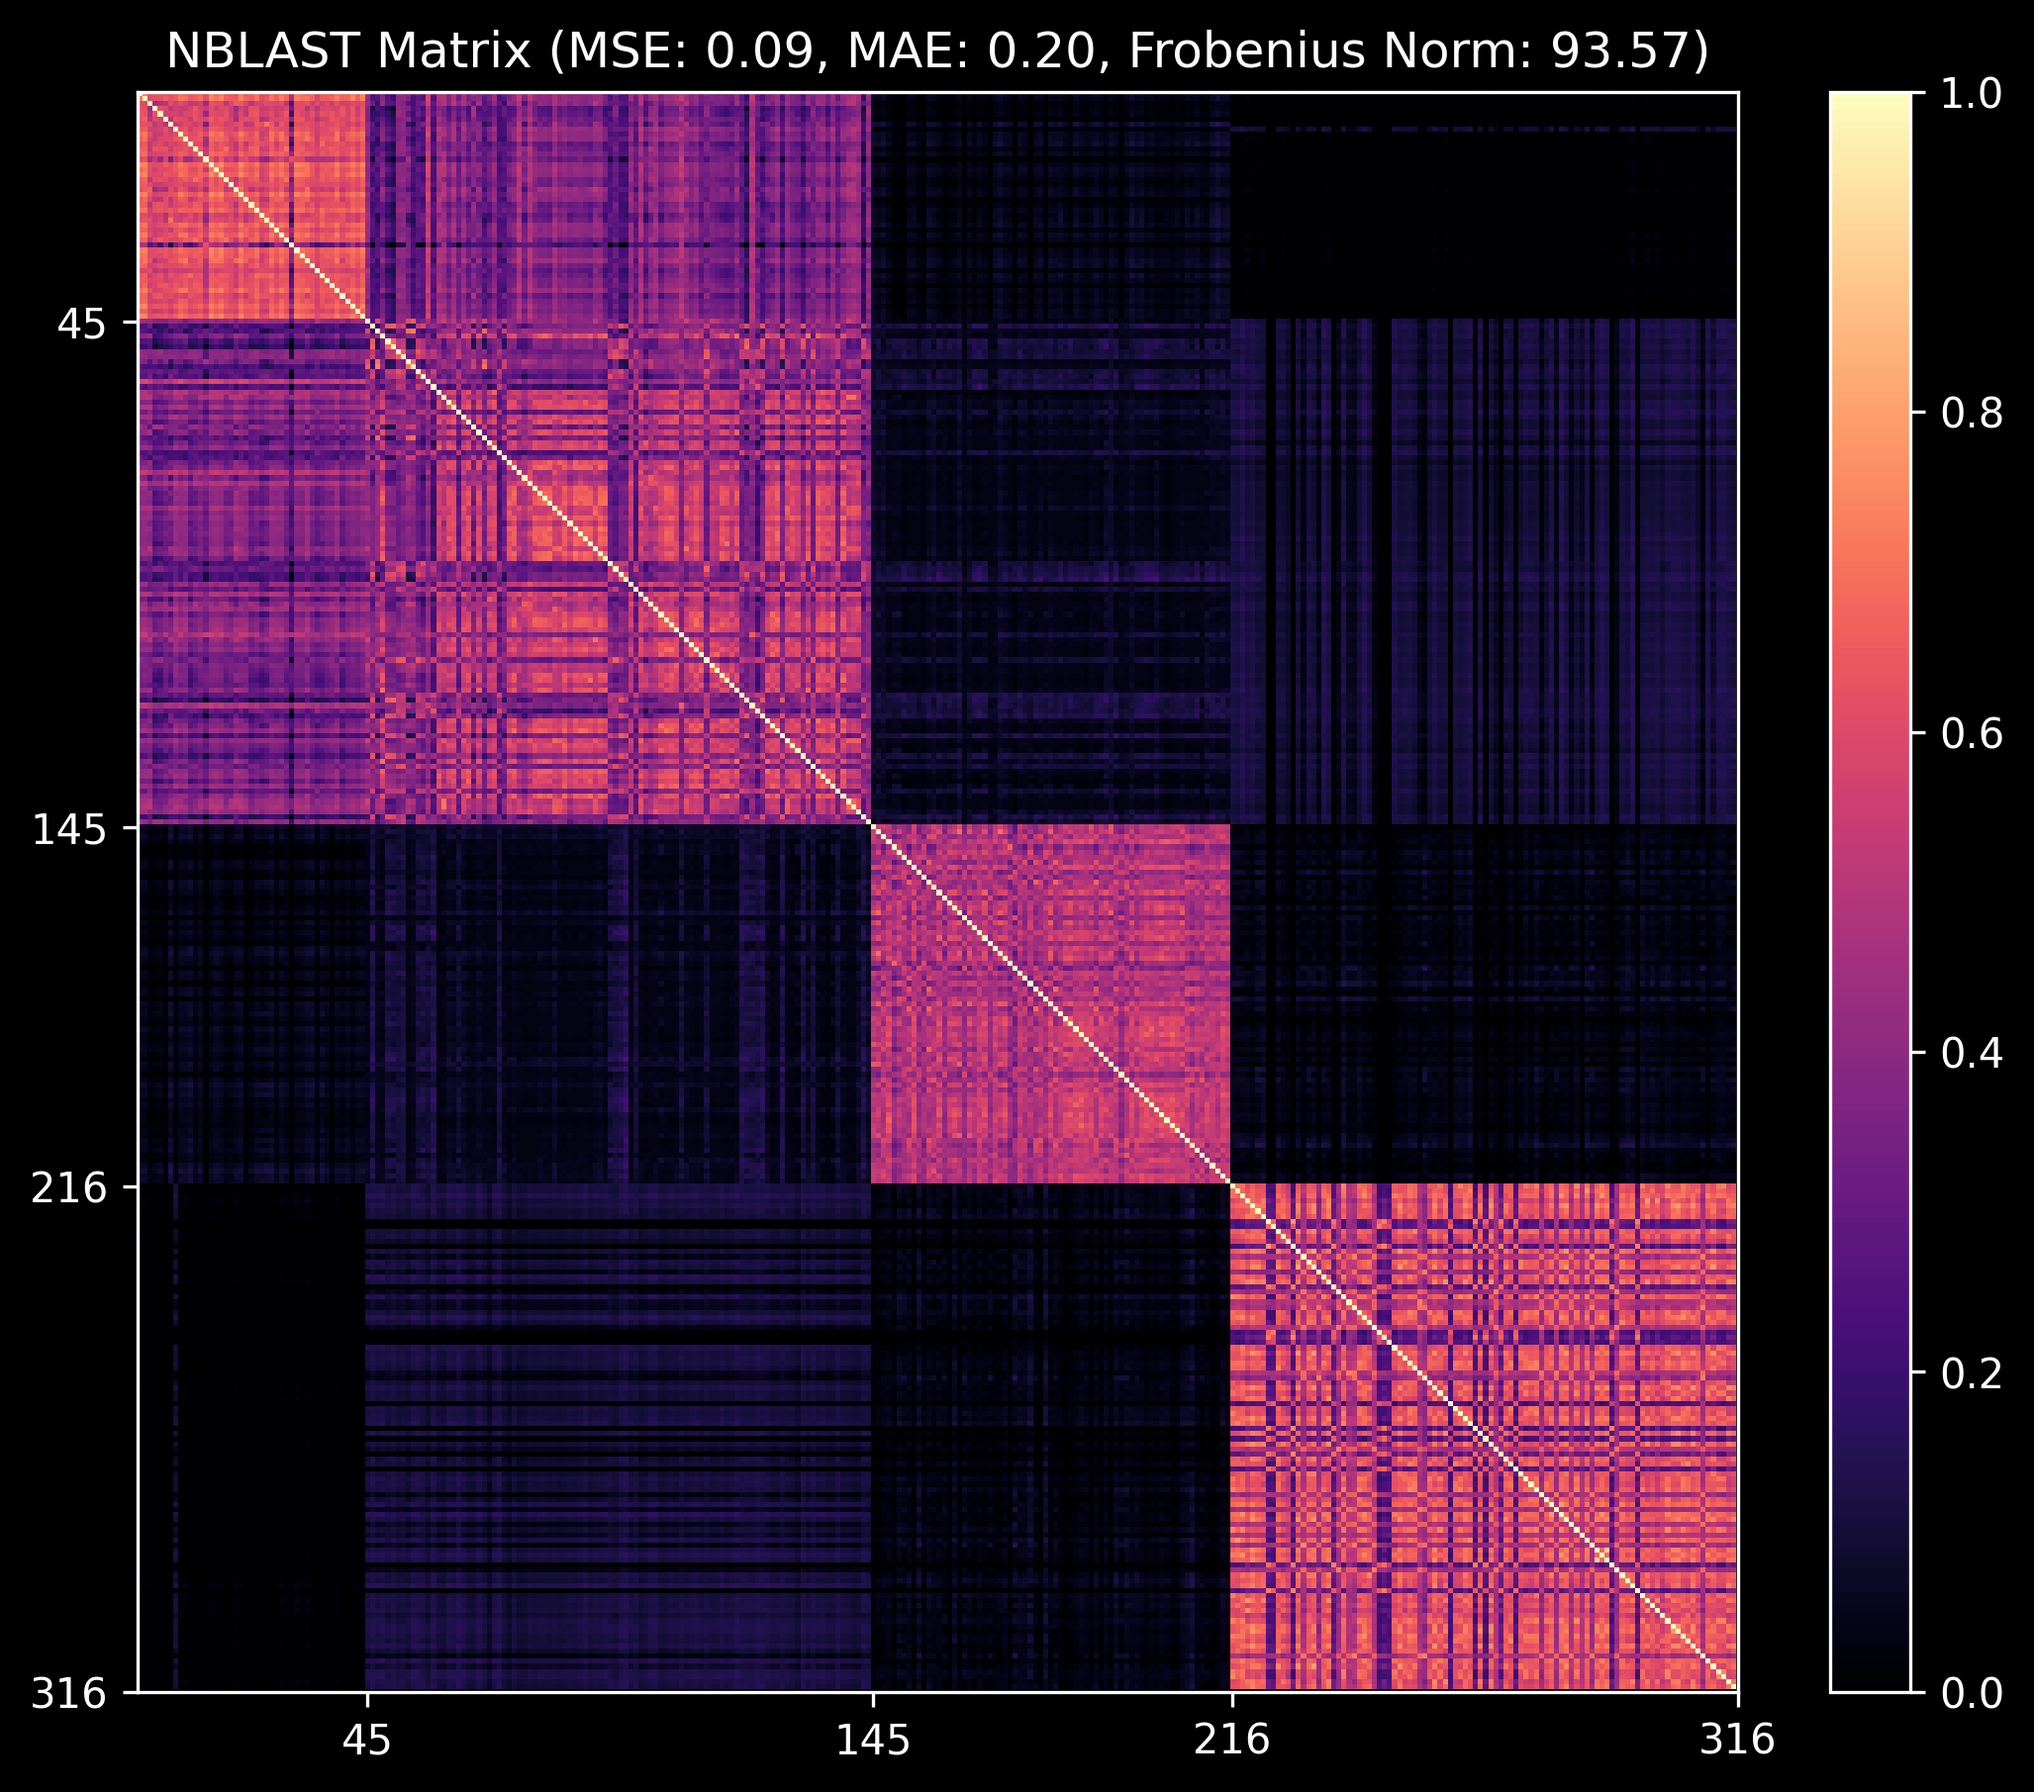
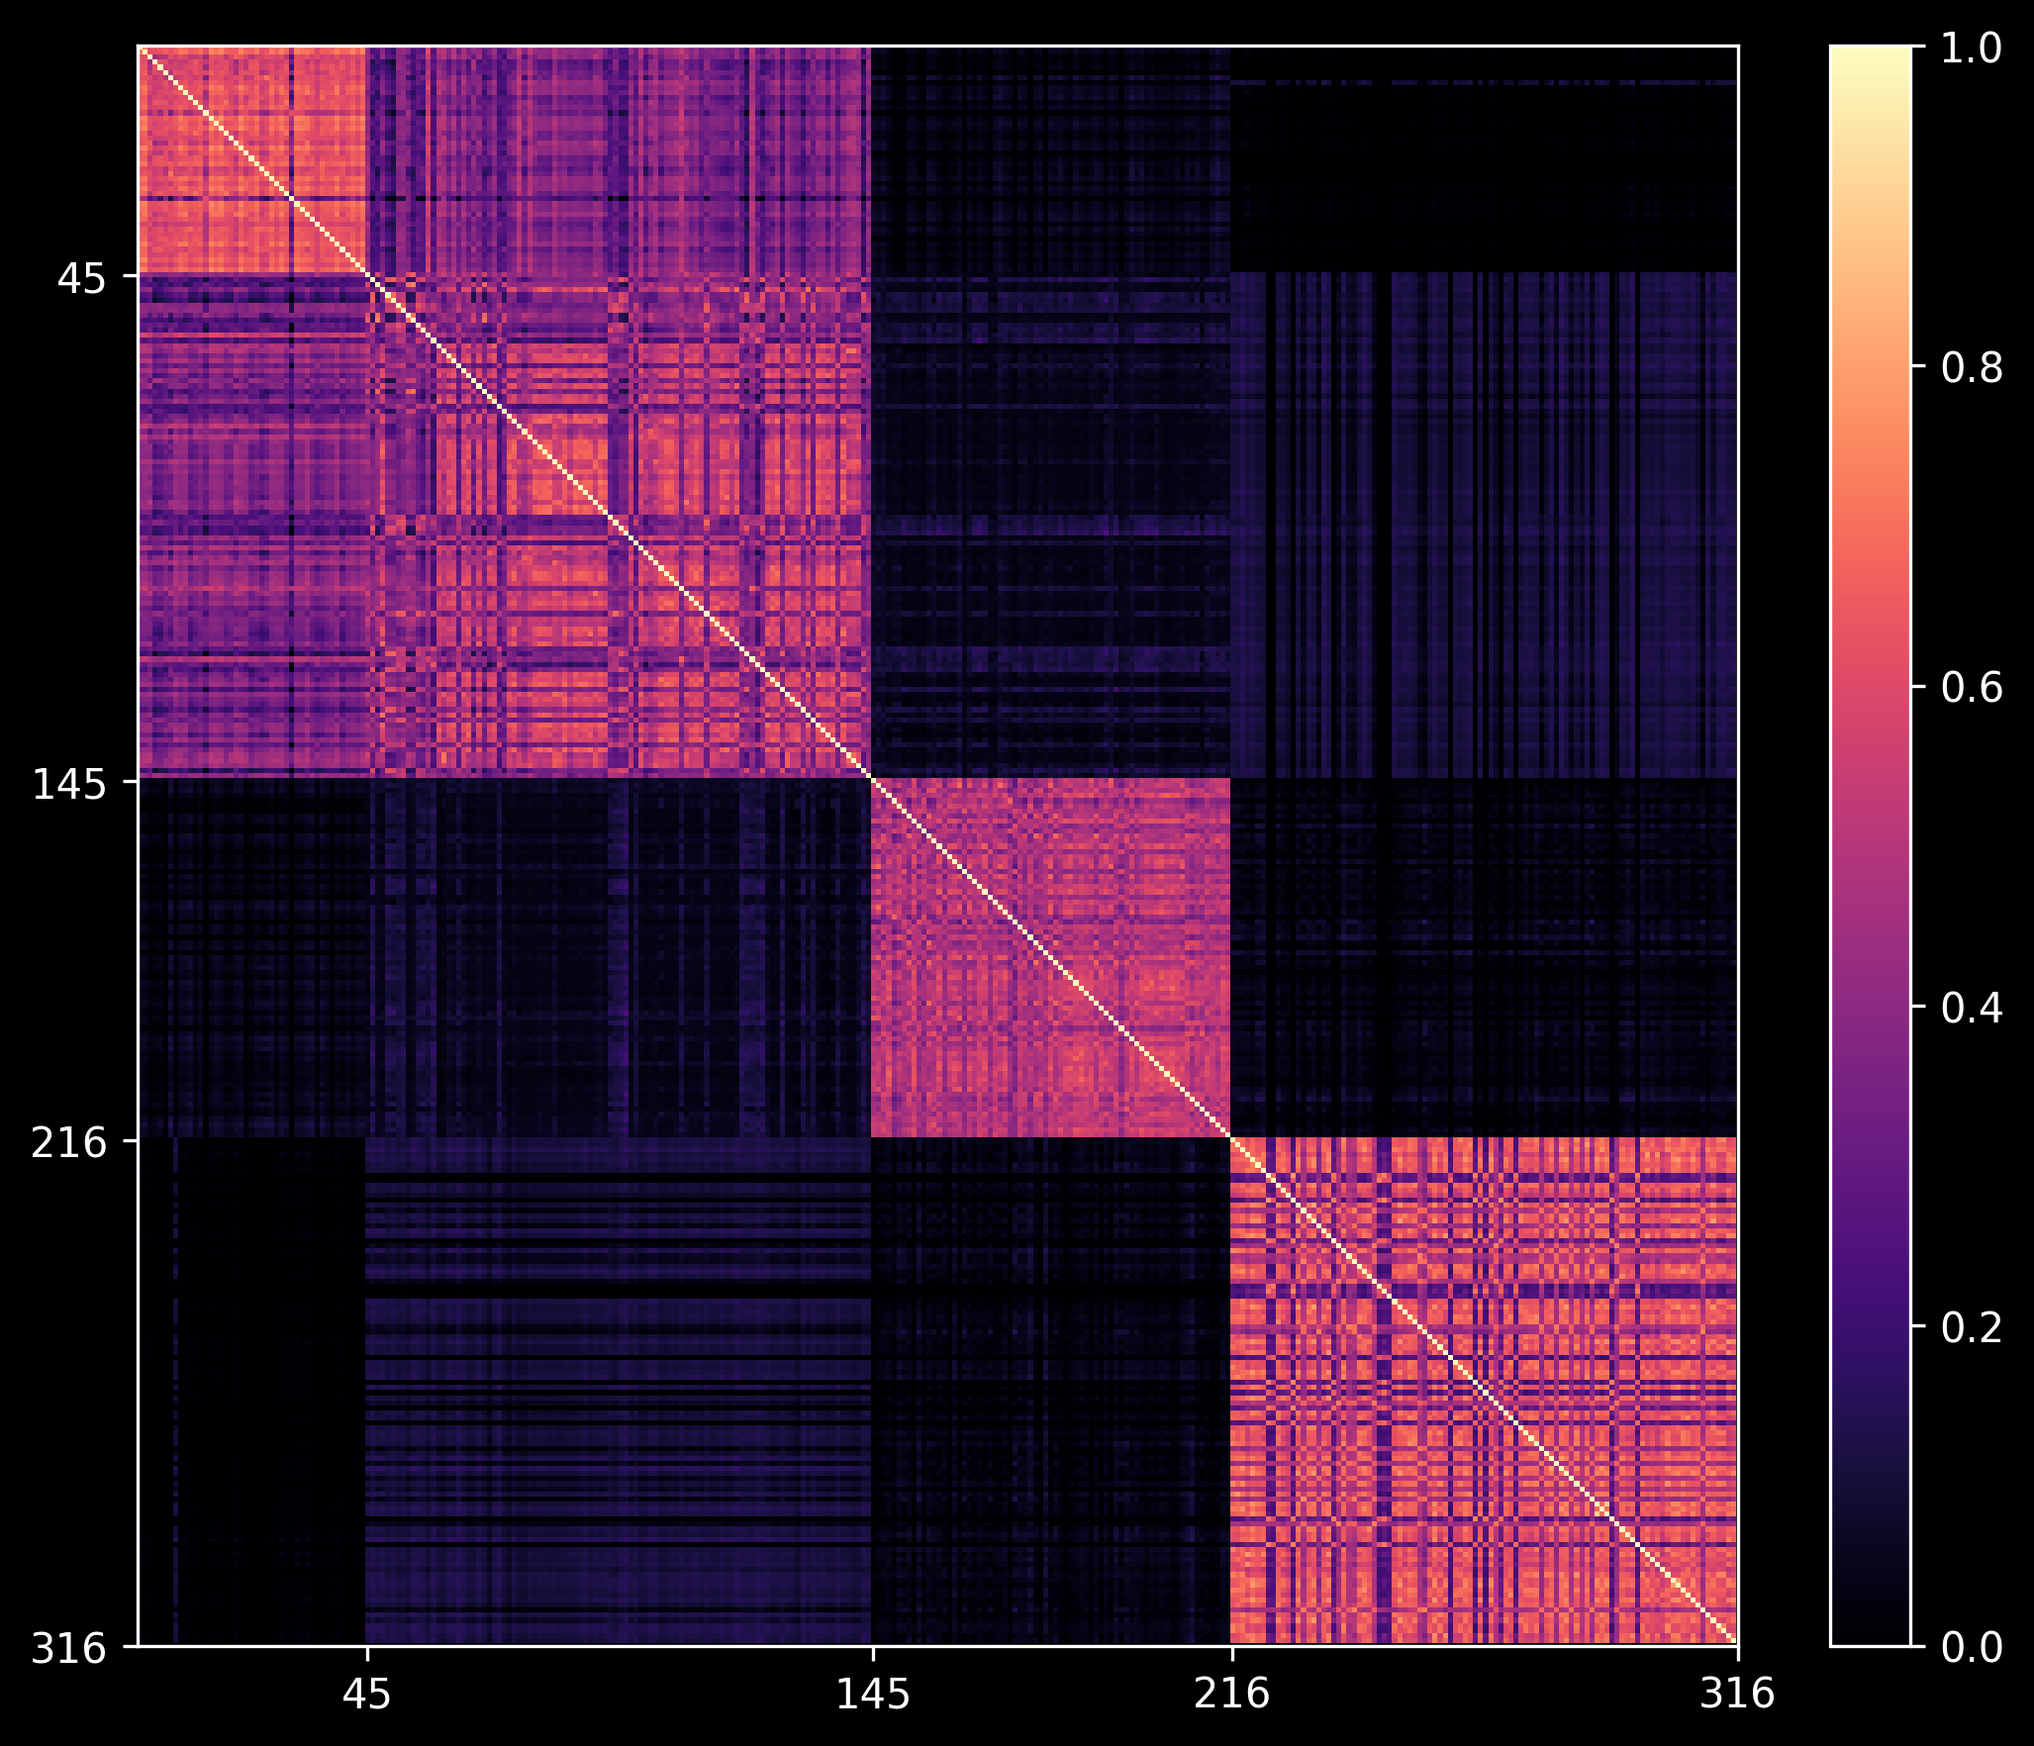
更新similarity matrix 畫圖

diff --git a/similarity_matrix/similarity_matrix_reorder.py b/similarity_matrix/similarity_matrix_reorder.py
@@ -74,7 +74,7 @@ for i, lpu in enumerate(lpu_lst):
 plt.figure(figsize=(10, 7))
 plt.imshow(similarity_matrix, cmap='magma')
 plt.colorbar(fraction=0.046, pad=0.04)
-plt.title(f'Similarity Matrix (MSE: {mse_model:.2f}, MAE: {mae_model:.2f}, Frobenius Norm: {frobenius_model:.2f})')
+# plt.title(f'Similarity Matrix (MSE: {mse_model:.2f}, MAE: {mae_model:.2f}, Frobenius Norm: {frobenius_model:.2f})')
 plt.xticks([45,145,216,316])
 plt.yticks([45,145,216,316])
 plt.savefig('/cluster/home/ming/Project_N/nrn_mapping_CNN/similarity_matrix/similarity_matrix_single.png', dpi=300, bbox_inches='tight')
@@ -93,7 +93,7 @@ def reorder_matrix(matrix, fc_id_lst):
     reordered_fc_id2index = {fc_id_lst[i]: idx for idx, i in enumerate(order)}
 
     # 使用相同的顺序对行和列进行排序
-    reordered_matrix = similarity_matrix[order, :]
+    reordered_matrix = matrix[order, :]
     reordered_matrix = reordered_matrix[:, order]
     return reordered_matrix, reordered_fc_id2index
 
@@ -168,7 +168,7 @@ print('Frobenius Norm:', frobenius_nblast)
 plt.figure(figsize=(10, 7))
 plt.imshow(nblast_matrix, cmap='magma')
 plt.colorbar(fraction=0.046, pad=0.04)
-plt.title(f'NBLAST Matrix (MSE: {mse_nblast:.2f}, MAE: {mae_nblast:.2f}, Frobenius Norm: {frobenius_nblast:.2f})')
+# plt.title(f'NBLAST Matrix (MSE: {mse_nblast:.2f}, MAE: {mae_nblast:.2f}, Frobenius Norm: {frobenius_nblast:.2f})')
 plt.xticks([45,145,216,316])
 plt.yticks([45,145,216,316])
 plt.savefig('/cluster/home/ming/Project_N/nrn_mapping_CNN/similarity_matrix/similarity_matrix_NBLAST.png', dpi=300, bbox_inches='tight')
@@ -213,41 +213,99 @@ plt.show()
 # print(f"Frobenius Norm of Model-Ideal: {frobenius_norm_model}")
 
 # %% 數值分佈圖
-def plot_distribution(matrix, title='Distribution'):
-    plt.hist(matrix.flatten(), bins=50)
+plt.style.use('default')
+def plot_distribution(matrix, title='Distribution', save=False):
+    plt.hist(matrix.flatten(), bins=50, color='teal')
     plt.title(title)
-    # plt.xlabel('Similarity Score')
-    # plt.ylabel('Frequency')
-    # plt.savefig('/cluster/home/ming/Project_N/nrn_mapping_CNN/similarity_matrix/'+title+'.png', dpi=300, bbox_inches='tight')
+    plt.minorticks_on()
+    plt.ylabel('Count', fontsize=12)
+    plt.xlabel('Similarity Score', fontsize=12)
+    if save:
+        plt.savefig('/cluster/home/ming/Project_N/nrn_mapping_CNN/similarity_matrix/'+title+'.png', dpi=300, bbox_inches='tight')
     plt.show()
 
-plot_distribution(nblast_matrix, 'NBLAST Distribution')
-plot_distribution(similarity_matrix, 'Model Distribution')
+
+plot_distribution(nblast_matrix, 'NBLAST Score Distribution', save=True)
+plot_distribution(similarity_matrix, 'Model Score Distribution', save=True)
 
 # %% binary化相似度矩陣
 def binarize(matrix, threshold):
     return (matrix > threshold).astype(int)
 
-nblast_binary = binarize(nblast_matrix, 0.5)
-model_binary = binarize(similarity_matrix, 0.5)
+threshold = 0.5
 
-mse_nblast_binary = np.mean((nblast_binary - ideal_matrix) ** 2)
-mse_model_binary = np.mean((model_binary - ideal_matrix)**2)
+nblast_binary = binarize(nblast_matrix, 0.65)
+model_binary = binarize(similarity_matrix, threshold)
 
-print('MSE NBLAST Binary:', mse_nblast_binary)
-print('MSE Model Binary:', mse_model_binary)
+# mse_nblast_binary = np.mean((nblast_binary - ideal_matrix) ** 2)
+# mse_model_binary = np.mean((model_binary - ideal_matrix)**2)
+mae_nblast_binary = np.mean(np.abs(nblast_binary - ideal_matrix))
+mae_model_binary = np.mean(np.abs(model_binary - ideal_matrix))
+
+
+print('MAE NBLAST Binary:', mae_nblast_binary)
+print('MAE Model Binary:', mae_model_binary)
 
 fig, (ax1, ax2) = plt.subplots(1, 2, figsize=(11, 5))
 cax1 = ax1.imshow(nblast_binary, cmap='magma')
-ax1.set_title('NBLAST Binary Matrix')
+ax1.set_title(f'NBLAST (Binary, thr={threshold:.2f}, MAE={mae_nblast_binary:.2f})')
 ax1.set_xticks([0,45,145,216,316])
 ax1.set_yticks([0,45,145,216,316])
 fig.colorbar(cax1, ax=ax1, fraction=0.046, pad=0.04)
 
 # 重新排序后的相似度矩阵
 cax2 = ax2.imshow(model_binary, cmap='magma')
-ax2.set_title('Model binary Matrix')
+ax2.set_title(f'Model (binary, thr={threshold:.2f}, MAE={mae_model_binary:.2f})')
 ax2.set_xticks([0,45,145,216,316])
 ax2.set_yticks([0,45,145,216,316])
 fig.colorbar(cax2, ax=ax2, fraction=0.046, pad=0.04)
+plt.savefig('/cluster/home/ming/Project_N/nrn_mapping_CNN/similarity_matrix/similarity_matrix_binary.png', dpi=300, bbox_inches='tight')
 plt.show()
+# %% 如果只考慮ideal matrix範圍中的MSE
+def located_mse(matrix, ideal_matrix):
+    mse_matrix = (matrix - ideal_matrix) **2
+    mse_lst = mse_matrix[ideal_matrix == 1].tolist()
+    return np.mean(mse_lst)
+
+nblast_mse = located_mse(nblast_matrix, ideal_matrix)
+model_mse = located_mse(similarity_matrix, ideal_matrix)
+
+def plot_thr_mae_distribution(matrix, ideal_matrix, save=False):
+    # 計算各threshold下的MAE
+    mae_lst = []
+    for i in range(0, 105, 5):
+        threshold = i/100
+        binary_matrix = (matrix > threshold).astype(int)
+        mae = np.mean(np.abs(binary_matrix - ideal_matrix))
+        mae_lst.append(mae)
+    
+    fig, ax1 = plt.subplots()
+    # 畫分數的分佈圖
+    ax1.hist(matrix.flatten(), bins=50, color='teal', label="Prediction's Distribution")
+    ax1.set_ylabel('Count', color='teal', fontsize=12)
+    ax1.tick_params(axis='y')
+
+    # 创建第二个y轴
+    ax2 = ax1.twinx()
+
+    # 绘制MAE曲线
+    ax2.plot(np.linspace(0, 1, len(mae_lst)), mae_lst, '-d', color='#BB0F1E', label='MAE')
+    ax2.set_xlabel('Threshold')
+    ax2.set_ylabel('MAE', color='#BB0F1E', fontsize=12)
+    ax2.tick_params(axis='y')
+
+    fig.tight_layout()  # 调整布局以防止标签重叠
+
+    # 添加图例
+    lines, labels = ax1.get_legend_handles_labels()
+    lines2, labels2 = ax2.get_legend_handles_labels()
+    ax1.legend(lines + lines2, labels + labels2)
+
+
+    if save:
+        plt.savefig('/cluster/home/ming/Project_N/nrn_mapping_CNN/similarity_matrix/threshold_vs_mae.png', dpi=150, bbox_inches='tight')
+    plt.show()
+
+plot_thr_mae_distribution(nblast_matrix, ideal_matrix, save=True)
+plot_thr_mae_distribution(similarity_matrix, ideal_matrix, save=True)
+# %%

diff --git a/result_analysis.py b/result_analysis.py
@@ -40,19 +40,19 @@ def generate_cross_loss_curve(losses_df, curve_color, name):
 
 
 # %%
-model_name = 'Fine_Tune_Model_150KnF_CoorOrient_'
+model_name = 'Fine_Tune_Model_150K_'#'Fine_Tune_Model_150KnF_CoorOrient_'# 網頁版本模型結果
 
 # 设置Seaborn样式
 plt.style.use('default')
 
-test_mode = 'cross'    #single: 使用單一模型產生的 test result csv, cross: 使用cross validation 覆蓋完整 data, 'nblast': 讀取nblast分數
+test_mode = 'nblast'#'cross'    #single: 使用單一模型產生的 test result csv, cross: 使用cross validation 覆蓋完整 data, 'nblast': 讀取nblast分數
 
 test_set_num = 0       # 指定test_set 的特殊編號, 只有在 test_mode == 'single'中才要特別設置
 
 cross_num = 10      # cross validation 的 fold 數量, 只有在test_mode=='cross' 中才需要特別設置
 
 # 如果為False, 則使用完整的test set, 如需要分析指定的test set(需在模型原本的Testing資料內), 輸入指定文件路徑, 此文件為包含指定fc_id, em_id的csv
-selected_test_set = False #'./labeled_info/D2+D6_ID.csv'#'./labeled_info/D5_conf.csv' #False
+selected_test_set = './labeled_info/D5_conf.csv' #'./labeled_info/D2+D6_ID.csv' #False
 
 label_csv_name = './result/test_label_'+model_name
 # label_csv_name = './result/predict_result/model_predict_'
@@ -345,7 +345,7 @@ plt.bar(x_axis_name_filt, top_k_accuracy, color='#BB0F1E',linewidth=0)
 for x,y in enumerate(top_k_accuracy):
     plt.text(x, y+0.01, '{:.1%}'.format(y), ha='center', color='black', fontsize=12)
 
-plt.ylabel('Accuracy')
+plt.ylabel('Recall at K')
 # plt.title('Top k Accuracy')
 plt.savefig('./Figure/Top_'+str(top_k)+'_Accuracy', dpi=150, bbox_inches='tight')
 plt.show()
